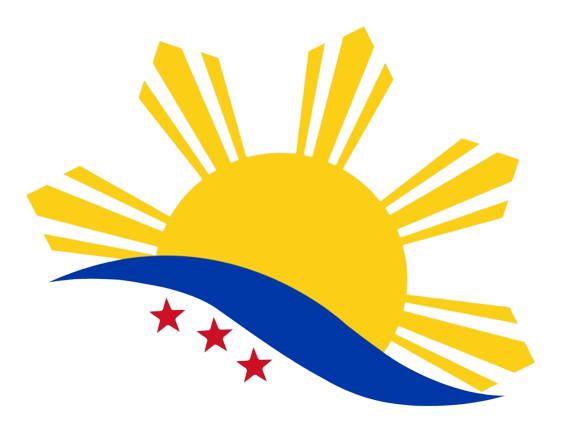
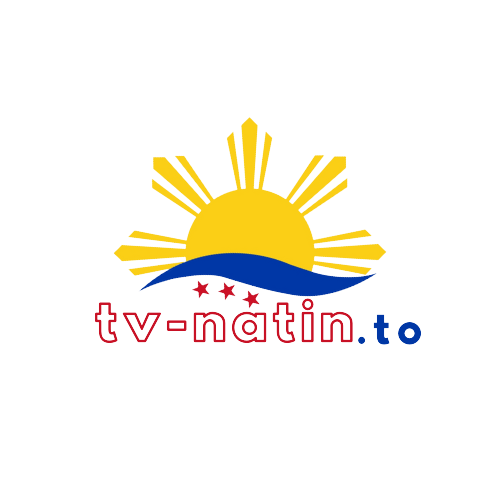
Changes, Fixes
Changed the main icon of the app.
Fixed the issue with link not going to proper URL.

Changed region(s): [[0.03, 0.0584, 0.96, 0.9348]]

diff --git a/src/components/navbar/Search-Result.js b/src/components/navbar/Search-Result.js
@@ -7,30 +7,29 @@ const SearchResult = ({ data }) => {
     const context = useContext(MyContext);
     const searchResult = context.state.searchResult;
     const handlePopOutTrailerButton = context.handlePopOutTrailerButton;
-    const dropDownMenu = context.state.dropDownMenu;
+    const handleClosePopOutWindow = context.handleClosePopOutWindow;
+    // const dropDownMenu = context.state.dropDownMenu;
 
     const searchResults = () => {
         return data
-            // ? data.slice(0, 5).map((item, index) => (
             ? data.map((item, index) => (
                 <Link
-                    to={`/${dropDownMenu}/${item.id}`}
+                    to={`/${item.media_type}/${item.id}`}
                     id={item.id}
                     key={index}
                 >
-
                     <div id={item.id} className='search-result-card' onClick={handlePopOutTrailerButton}>
                         <div className='search-result-card-container-image' id={item.id}>
                             {
-                                dropDownMenu === 'movie'
+                                item.media_type === 'movie'
                                     ? item.poster_path
                                         ? <img src={`https://image.tmdb.org/t/p/w92${item.poster_path}`} alt={item.name} />
                                         : <img src={`https://images.unsplash.com/photo-1604161546853-1a097fbc30fb?ixlib=rb-4.0.3&ixid=M3wxMjA3fDB8MHxwaG90by1wYWdlfHx8fGVufDB8fHx8fA%3D%3D&auto=format&fit=crop&w=742&q=80`} alt={item.name} />
-                                    : dropDownMenu === 'tv'
+                                    : item.media_type === 'tv'
                                         ? item.poster_path
                                             ? <img src={`https://image.tmdb.org/t/p/w92${item.poster_path}`} alt={item.name} />
                                             : <img src={`https://images.unsplash.com/photo-1604161546853-1a097fbc30fb?ixlib=rb-4.0.3&ixid=M3wxMjA3fDB8MHxwaG90by1wYWdlfHx8fGVufDB8fHx8fA%3D%3D&auto=format&fit=crop&w=742&q=80`} alt={item.name} />
-                                        : dropDownMenu === 'person'
+                                        : item.media_type === 'person'
                                             ? item.profile_path
                                                 ? <img src={`https://image.tmdb.org/t/p/w185${item.profile_path}`} alt={item.name} />
                                                 : <img src={`https://images.unsplash.com/photo-1604161546853-1a097fbc30fb?ixlib=rb-4.0.3&ixid=M3wxMjA3fDB8MHxwaG90by1wYWdlfHx8fGVufDB8fHx8fA%3D%3D&auto=format&fit=crop&w=742&q=80`} alt={item.name} />
@@ -40,11 +39,11 @@ const SearchResult = ({ data }) => {
                         <div className='search-result-card-details' id={item.id}>
                             <p className='result-title' id={item.id}>
                                 {
-                                    dropDownMenu === 'movie'
+                                    item.media_type === 'movie'
                                         ? item.title
-                                        : dropDownMenu === 'tv'
+                                        : item.media_type === 'tv'
                                             ? item.name
-                                            : dropDownMenu === 'person'
+                                            : item.media_type === 'person'
                                                 ? item.name
                                                 : null
                                 }
@@ -52,17 +51,17 @@ const SearchResult = ({ data }) => {
                             <div>
                                 <p id={item.id}>
                                     {
-                                        dropDownMenu === 'movie'
+                                        item.media_type === 'movie'
                                             ? (item.release_date
                                                 ? item.release_date.split('-')[0]
                                                 : '????'
                                             )
-                                            : dropDownMenu === 'tv'
+                                            : item.media_type === 'tv'
                                                 ? (item.first_air_date
                                                     ? item.first_air_date.split('-')[0]
                                                     : '????'
                                                 )
-                                                : dropDownMenu === 'person'
+                                                : item.media_type === 'person'
                                                     ? item.gender === 0 ? 'Male' : 'Female'
                                                     : item.gender === 1 ? 'Female' : 'Male'
                                     }
@@ -70,11 +69,11 @@ const SearchResult = ({ data }) => {
                                 <i className="fa-solid fa-circle" id={item.id}></i>
                                 <p id={item.id}>
                                     {
-                                        dropDownMenu === 'movie'
-                                            ? dropDownMenu
-                                            : dropDownMenu === 'tv'
-                                                ? dropDownMenu
-                                                : dropDownMenu === 'person'
+                                        item.media_type === 'movie'
+                                            ? item.media_type
+                                            : item.media_type === 'tv'
+                                                ? item.media_type
+                                                : item.media_type === 'person'
                                                     ? item.known_for_department
                                                     : null
                                     }
@@ -82,11 +81,11 @@ const SearchResult = ({ data }) => {
                                 <i className="fa-solid fa-circle" id={item.id}></i>
                                 <p id={item.id}>
                                     {
-                                        dropDownMenu === 'movie'
+                                        item.media_type === 'movie'
                                             ? item.vote_average
-                                            : dropDownMenu === 'tv'
+                                            : item.media_type === 'tv'
                                                 ? item.vote_average
-                                                : dropDownMenu === 'person'
+                                                : item.media_type === 'person'
                                                     ? item.popularity
                                                     : null
                                     }
@@ -107,6 +106,7 @@ const SearchResult = ({ data }) => {
                         ? 'search-result-container'
                         : 'display-none'
                 }
+                onBlur={handleClosePopOutWindow}
             >
                 <div className='search-result-card-container' >
                     {searchResults()}

diff --git a/src/components/navbar/Navbar.js b/src/components/navbar/Navbar.js
@@ -15,8 +15,6 @@ const Navbar = () => {
     const activePage = context.state.activePage;
     const handleHamburgerIcon = context.handleHamburgerIcon;
     const handleUserInput = context.handleUserInput;
-    const handleDropDownMenu = context.handleDropDownMenu;
-    const dropDownMenu = context.state.dropDownMenu;
 
     useEffect(() => {
         getSearchResults() // eslint-disable-next-line
@@ -27,31 +25,12 @@ const Navbar = () => {
             const inputString = userInput.split(' ').join('%');
             const query = inputString;
             const apiKey = state.apiKey;
-            if (dropDownMenu === 'movie') {
-                console.log('movie');
-                const response = await axios.get(`https://api.themoviedb.org/3/search/movie?query=${query}&language=en-US&page=1&api_key=${apiKey}`);
-                return setSearchResultData(response.data.results);
-            }
-            if (dropDownMenu === 'tv') {
-                console.log('tv');
-                const response = await axios.get(`https://api.themoviedb.org/3/search/tv?query=${query}&language=en-US&page=1&api_key=${apiKey}`);
-                return setSearchResultData(response.data.results);
-            }
-            if (dropDownMenu === 'person') {
-                console.log('person');
-                const response = await axios.get(`https://api.themoviedb.org/3/search/person?query=${query}&language=en-US&page=1&api_key=${apiKey}`)
-                return setSearchResultData(response.data.results);
-            }
-            else {
-                // console.log('else');
-                // const response = await axios.get(`https://api.themoviedb.org/3/search/multi?language=en-US&query=${query}&page=1&api_key=${apiKey}`);
-                // return setSearchResultData(response.data.results);
-                console.log('Search Error');
-                alert('Sorry, Nothing Found');
-            }
+            const response = await axios.get(`https://api.themoviedb.org/3/search/multi?query=${query}&language=en-US&page=1&api_key=${apiKey}`);
+            setSearchResultData(response.data.results);
         }
+
         catch (error) {
-            // console.log('No Data Mounted in State');
+            console.log(error);
         }
     }
 
@@ -73,11 +52,11 @@ const Navbar = () => {
                             onSubmit={handleSearchSubmit}
                         >
                             {/* <label for='type'>{`${dataType}`}</label> */}
-                            <select onClick={handleDropDownMenu} name='type' id='type'>
+                            {/* <select onClick={handleDropDownMenu} name='type' id='type'>
                                 <option value='movie'>Movie</option>
                                 <option value='tv'>TV Show</option>
                                 <option value='person'>People</option>
-                            </select>
+                            </select> */}
                             <input
                                 type='text'
                                 id='searchInput'

diff --git a/src/components/reuseable/image-carousel-portrait.js b/src/components/reuseable/image-carousel-portrait.js
@@ -9,7 +9,7 @@ const ImageCarouselPortrait = (props) => {
     const data = props.data;
     const type = props.type;
     const headerName = props.headerName;
-    const dropDownMenu = context.state.dropDownMenu;
+    // const dropDownMenu = context.state.dropDownMenu;
     const handlePopOutTrailerButton = context.handlePopOutTrailerButton;
     // console.log(pageID);
 
@@ -20,8 +20,11 @@ const ImageCarouselPortrait = (props) => {
     const imageComponent = () => {
         return data.map((item) => (
             <Link
-                // to={`/${pageType}/${pageID}&${item.title.split(' ').join('-')}`}
-                to={`/${dropDownMenu}/${item.id}`}
+                to={props.type === 'movie'
+                    ? `/movie/${item.id}`
+                    : props.type === 'tv'
+                        ? `/tv/${item.id}`
+                        : null}
                 key={item.id}
                 id={item.id}
                 name={item.name}
@@ -45,21 +48,25 @@ const ImageCarouselPortrait = (props) => {
                     </div>
                     <div className='card-container-details'>
                         <p>
-                            {
-                                dropDownMenu === 'movie'
-                                    ? item.release_date
-                                        ? item.release_date.split('-')[0]
+                            {props.type === 'movie'
+                                ? item.release_date
+                                    ? item.release_date.split('-')[0]
+                                    : null
+                                : props.type === 'tv'
+                                    ? item.first_air_date
+                                        ? item.first_air_date.split('-')[0]
                                         : null
-                                    : dropDownMenu === 'tv'
-                                        ? item.first_air_date
-                                            ? item.first_air_date.split('-')[0]
-                                            : null
-                                        : null
-
-                            }</p>
+                                    : null}
+                        </p>
                     </div>
                     <div className='card-container-title'>
-                        <p>{item.title}</p>
+                        <p>
+                            {props.type === 'movie'
+                                ? item.title
+                                : props.type === 'tv'
+                                    ? item.name
+                                    : null}
+                        </p>
                     </div>
                 </div>
             </Link>

diff --git a/src/components/tv-component.js/TV-Content.js b/src/components/tv-component.js/TV-Content.js
@@ -1,12 +1,14 @@
-import { useContext } from "react";
+import { useContext, useEffect } from "react";
 import { useState } from "react";
 import { getLangNameFromCode } from "language-name-map";
 import { MyContext } from "../../context";
 import { Link } from "react-router-dom";
+import { useParams } from "react-router-dom";
 
 const TVContent = ({ data, keywords }) => {
 
     const context = useContext(MyContext);
+    const params = useParams();
     const [seasonButton, setSeasonButton] = useState(false);
     const [seasonIndex, setSeasonIndex] = useState();
     const [seasonButtonName, setSeasonButtonName] = useState('Select Season');
@@ -15,9 +17,13 @@ const TVContent = ({ data, keywords }) => {
     const [episodeButtonName, setEpisodeButtonName] = useState('Select Episode');
     const handleFakeLinks = context.handleFakeLinks;
     const handleShowEpisode = context.handleShowEpisode;
-    const getLanguage = (data.original_language ? getLangNameFromCode(data.original_language).name : data.original_language)
+    const getLanguage = (data.original_language ? getLangNameFromCode(data.original_language).name : data.original_language);
     const genres = data.genres;
-    console.log(data);
+
+    useEffect(() => {
+        setSeasonButtonName('Select Season');
+        setEpisodeButtonName('Select Episode');
+    }, [params.id]);
 
     const handleCastArtist = () => {
         return data.credits
@@ -82,7 +88,7 @@ const TVContent = ({ data, keywords }) => {
     }
 
     const handleEpisodesDropDown = () => {
-        return seasonIndex ? handleEpisodes() : 'false'
+        return seasonIndex ? handleEpisodes() : null
     }
 
     const handleEpisodes = () => {
@@ -139,7 +145,8 @@ const TVContent = ({ data, keywords }) => {
                             >{episodeButtonName} <i className={episodeButton ? 'fa-solid fa-angle-up' : 'fa-solid fa-angle-down'}></i>
                             </button>
                             <div
-                                className={episodeButton ? 'episode-selection-container' : 'display-none'}>
+                                className={episodeButton ? 'episode-selection-container' : 'display-none'}
+                            >
                                 {handleEpisodesDropDown()}
                             </div>
                         </div>

diff --git a/src/components/tv-component.js/TV-Main-Page.js b/src/components/tv-component.js/TV-Main-Page.js
@@ -22,7 +22,7 @@ const TVMainPage = () => {
     const [similarData, setSimilarData] = useState([]);
     const state = context.state;
     const apiKey = state.apiKey;
-    const dynamicPageDataID = state.dynamicPageDataID;
+    // const dynamicPageDataID = state.dynamicPageDataID;
     const dynamicPageData = state.dynamicPageData;
     const serverButtonID = state.serverButtonID;
     const handleServerButton = context.handleServerButton;
@@ -30,7 +30,7 @@ const TVMainPage = () => {
 
     useEffect(() => {
         getDynamicPageData(); // eslint-disable-next-line
-    }, [dynamicPageDataID]);
+    }, [params.id]);
 
     async function getDynamicPageData() {
         try {
@@ -91,7 +91,7 @@ const TVMainPage = () => {
                 <ImageCarouselPortrait
                     data={similarData}
                     headerName='Recommendations'
-                    type='movie'
+                    type='tv'
                 />
             </div>
         </>

diff --git a/src/styles/styles.css b/src/styles/styles.css
@@ -350,6 +350,7 @@ select {
 
 .banner-navbar-search-container {
     width: 50%;
+    border-radius: 5px;
 }
 
 .banner-navbar-search {
@@ -358,7 +359,7 @@ select {
 }
 
 .banner-navbar-search input {
-    border-radius: 0 0 0 0;
+    border-radius: 5px 0 0 5px;
     height: 2rem;
     width: 100%;
     background-color: rgb(255, 255, 255, 0.7);
